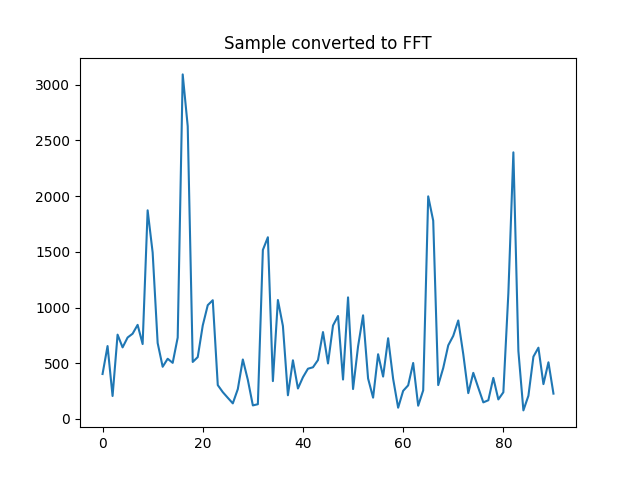
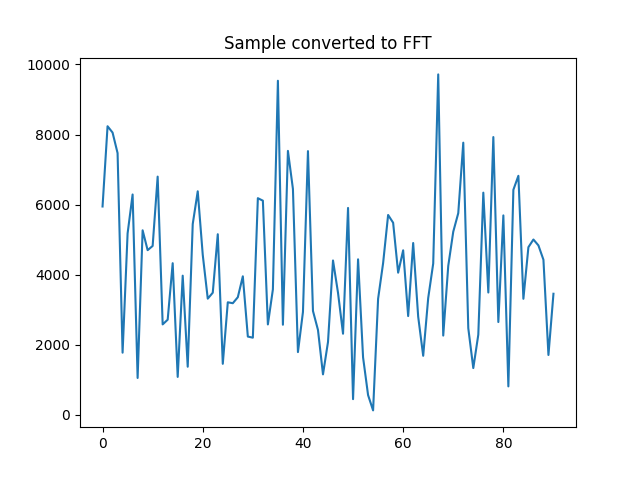
docs(006): update docs in adding input dimensions

diff --git a/006/train_with_fft.py b/006/train_with_fft.py
@@ -1,4 +1,5 @@
 import os
+from add_fft_to_sample import add_fft_to_sample
 
 from env_vars import RESOLUTION
 from model import AnomalyDetector
@@ -7,15 +8,12 @@ os.add_dll_directory('C:/Program Files/NVIDIA GPU Computing Toolkit/CUDA/v11.6/b
 
 import tensorflow as tf
 import matplotlib.pyplot as plt
+import numpy as np
 
 start_date = '2022-04-20T00:00:00.000Z'
 end_date = '2022-04-20T12:00:00.000Z'
 
-samples = prepare_samples(start_date, end_date)
-
-plt.title('Original Sample')
-plt.plot(samples[0])
-plt.show()
+samples = np.array([add_fft_to_sample(sample) for sample in prepare_samples(start_date, end_date)])
 
 min_val = tf.reduce_min(samples)
 max_val = tf.reduce_max(samples)
@@ -34,18 +32,19 @@ optimizers = [
   'sgd'
 ]
 
-autoencoder = AnomalyDetector(dimension=180)
-autoencoder.compile(optimizer='adam', loss='mse')
+print(f'Sample length: {len(normalized_samples[0])}')
 
-history = autoencoder.fit(
-  x=training_data,
-  y=training_data,
-  epochs=20,
-  batch_size=128,
-  shuffle=True,
-)
+for optimizer in optimizers:
+  autoencoder = AnomalyDetector(dimension=len(normalized_samples[0]))
+  autoencoder.compile(optimizer=optimizer, loss='mse')
 
-plt.plot(history.history['loss'], label='Training Loss')
-plt.show()
+  history = autoencoder.fit(
+    x=training_data,
+    y=training_data,
+    epochs=20,
+    batch_size=128
+  )
 
-autoencoder.save('/anomaly_detection')
+  plt.title(f'Training Loss: {optimizer}')
+  plt.plot(history.history['loss'], label='Training Loss')
+  plt.show()

diff --git a/006/model.py b/006/model.py
@@ -10,6 +10,8 @@ class AnomalyDetector(Model):
   def __init__(self, dimension):
     super().__init__()
     self.encoder = tf.keras.Sequential([
+      layers.Dense(128, activation='sigmoid'),
+      layers.Dense(64, activation='sigmoid'),
       layers.Dense(32, activation='sigmoid'),
       layers.Dense(16, activation='sigmoid'),
       layers.Dense(8, activation='sigmoid'),
@@ -18,6 +20,8 @@ class AnomalyDetector(Model):
     self.decoder = tf.keras.Sequential([
       layers.Dense(16),
       layers.Dense(32),
+      layers.Dense(64),
+      layers.Dense(128),
       layers.Dense(dimension)
     ])
 

diff --git a/006/add_fft_to_sample.py b/006/add_fft_to_sample.py
@@ -1,0 +1,15 @@
+import matplotlib.pyplot as plt
+import numpy as np
+from scipy.signal import detrend
+
+def add_fft_to_sample(sample):
+  sample_detrended = detrend(data=np.array(sample), type='constant')
+  hamm_weight = np.hamming(len(sample_detrended))
+  sample_multiplied_hamm = sample_detrended * hamm_weight
+
+  fft = np.fft.rfft(sample_multiplied_hamm)
+  y = np.ndarray.tolist(np.abs(fft))
+
+  sample_with_fft = sample + y
+
+  return sample_with_fft

diff --git a/006/get_fft.py b/006/get_fft.py
@@ -1,5 +1,6 @@
 import matplotlib.pyplot as plt
 import numpy as np
+from scipy.signal import detrend
 
 def get_fft(sample, plot=False):
   if plot:
@@ -7,7 +8,7 @@ def get_fft(sample, plot=False):
     plt.plot(sample)
     plt.show()
 
-  sample -= sample.mean()
+  sample = detrend(data=sample, type='constant')
 
   if plot:
     plt.title('Sample after mean is removed')

diff --git a/006/get_running_window_samples.py b/006/get_running_window_samples.py
@@ -13,4 +13,4 @@ def get_running_window_samples():
     data.extend(json.load(open(f'./raw_data/running-window/{file}')))
     print(f'File {file} appended. Length: {len(data)}')
 
-  return np.array([sample + get_fft(np.array(sample)) for sample in data])
+  return np.array([sample + get_fft(np.array(sample), plot=True) for sample in data])

diff --git a/006/docs/adding-input-dimensions.md b/006/docs/adding-input-dimensions.md
@@ -1,53 +1,110 @@
 # Adding Input Dimensions
+The goal of this step is to determine what other features we can consider for model training and comparing their results. One of those features we are going to take in for learning is the *frequency domain* representation of our data.
 
-The goal of this step is to establish a workflow in determining what alternative features we can consider and evaluate whether the addition of that feature helps our model learn better or not.
+The frequency domain representation of a signal allows us to observe its characteristics that are either not easy to see (or not visible at all) when observed on time domain.
 
-## Frequency Domain
-
-The frequency domain representation of a signal allows you to observe several characteristics of the signal that are either not easy to see, or not visible at all when you look at the signal in the time domain.
-
-### Hamming Window
-```python
-hamm_weight = np.hamming(len(sample))
-plt.plot(hamm_weight)
-```
-![Hamming Window](./images/hamming-window.png "Hamming")
-
-### Plot of original sample
+For reference, here's what the original sample looks like:
 ```python
 plt.plot(sample)
 ```
 ![Original data](./images/original-data.png "Original")
 
-### Plot of sample after removing mean
-```python
-sample -= sample.mean()
-plt.plot(sample)
-```
-![Sample Mean Removed](./images/sample-mean-removed.png "Sample Mean Removed")
+## Appending the FFT to Samples
 
-### Sample after applying hamming filter
-```python
-hamm_weight = np.hamming(len(sample))
-sample_multiplied_hamm = sample * hamm_weight
-plt.plot(sample_multiplied_hamm)
-```
-![Sample Applied Hamming](./images/sample-applied-hamming.png "Sample Applied Hamming")
+Code for appending the FFT to a sample can be found here: [`add_fft_to_sample(sample)`](../add_fft_to_sample.py)
 
-### Sample converted to FFT
-```python
-fft = np.fft.rfft(sample_multiplied_hamm)
-y = np.ndarray.tolist(np.abs(fft))
-plt.plot(y)
-```
-![Sample Converted to FFT](./images/sample-to-fft.png "Sample Converted to FFT")
+1. Detrend the data. FFT is generally used for infinite-length of signals but since we are chopping up our signal into finite-length segments, we are making an approximation. Detrending the signal makes this approximation better. In here, we are using `scipy.signal.detrend` with `type='constant'` which will just subtract the mean from the data.
 
-### Sample appended with its own FFT
+    ```python
+    sample_detrended = detrend(data=sample, type='constant')
+    ```
+
+    below is a plot of the sample after detrending. Notice how the values are shifted down.
+
+    ![Sample Mean Removed](./images/sample-mean-removed.png "Sample Mean Removed")
+
+2. Apply hamming filter on the detrended signal. Hamming filter is a windowing technique which is also useful in improving the approximation of an infinite-length signal to a finite-length segment.
+
+    Get the hamming weights:
+    ```python
+    hamm_weight = np.hamming(len(sample_detrended))
+    plt.plot(hamm_weight)
+    ```
+
+    ![Hamming Window](./images/hamming-window.png "Hamming")
+
+    Apply the hamming filter:
+    ```python
+    sample_multiplied_hamm = sample_detrended * hamm_weight
+    ```
+
+    ![Sample Applied Hamming](./images/sample-applied-hamming.png "Sample Applied Hamming")
+
+3. Get the frequency domain representation using FFT
+    ```python
+    fft = np.fft.rfft(sample_multiplied_hamm)
+    y = np.ndarray.tolist(np.abs(fft))
+    plt.plot(y)
+    ```
+
+    ![Sample Converted to FFT](./images/sample-to-fft.png "Sample Converted to FFT")
+
+4. Append the result of FFT to the original sample.
+    ```python
+    sample_with_fft = sample + y
+    plt.plot(sample_with_fft)
+    ```
+
+    ![Sample With FFT](./images/sample-with-fft.png "Sample With FFT")
+
+## Using the Samples With FFT to Train the Model
+The process is pretty straightforward:
+1. Ensure that the model input and output dimensions match.
+    ```python
+    autoencoder = AnomalyDetector(dimension=271)
+    ```
+2. Additional hidden layers can also be optionally added. Adding a hidden layer increases the capacity of the perceptron to capture and reproduce more complex input-output relationships.
+    ```python
+    self.encoder = tf.keras.Sequential([
+      layers.Dense(128, activation='sigmoid'),
+      layers.Dense(64, activation='sigmoid'),
+      layers.Dense(32, activation='sigmoid'),
+      layers.Dense(16, activation='sigmoid'),
+      layers.Dense(8, activation='sigmoid'),
+    ])
+
+    self.decoder = tf.keras.Sequential([
+      layers.Dense(16),
+      layers.Dense(32),
+      layers.Dense(64),
+      layers.Dense(128),
+      layers.Dense(dimension)
+    ])
+    ```
+The images below are training loss of each optimizer using samples with appended FFT and with the added hidden layers (64, and 128).
 ```python
-new_datapoints = sample + y
-plt.plot(new_datapoints)
+
 ```
-![Sample With FFT](./images/sample-with-fft.png "Sample With FFT")
+
+*Note: Data used here are the same 12-hour data used from previous sections. Also same values for `epoch=20` and `batch_size=128`*
+
+![Training Loss](./images/adagrad-train-loss-with-fft.png "Training Loss")
+
+![Training Loss](./images/rmsprop-train-loss-with-fft.png "Training Loss")
+
+![Training Loss](./images/adadelta-train-loss-with-fft.png "Training Loss")
+
+![Training Loss](./images/adam-train-loss-with-fft.png "Training Loss")
+
+![Training Loss](./images/adamax-train-loss-with-fft.png "Training Loss")
+
+![Training Loss](./images/nadam-train-loss-with-fft.png "Training Loss")
+
+![Training Loss](./images/ftrl-train-loss-with-fft.png "Training Loss")
+
+![Training Loss](./images/sgd-train-loss-with-fft.png "Training Loss")
+
+Based on the images above, adding the FFT seems to have improved the overall training loss of our model (about 1 decimal place smaller loss) for optimizers `rmsprop`, `adam`, `adamax`, `nadam`, and `ftrl`.
 
 ## Resources
 1. [Partial Introduction to Frequency-Domain Analysis](https://www.mathworks.com/help/signal/ug/practical-introduction-to-frequency-domain-analysis.html)
